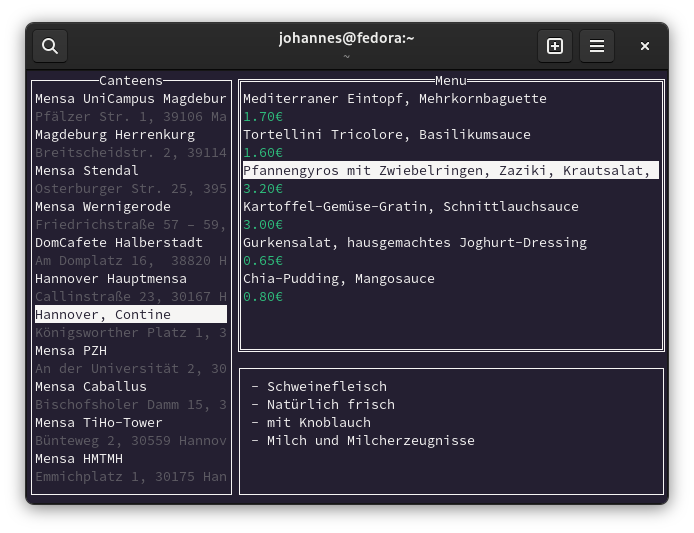
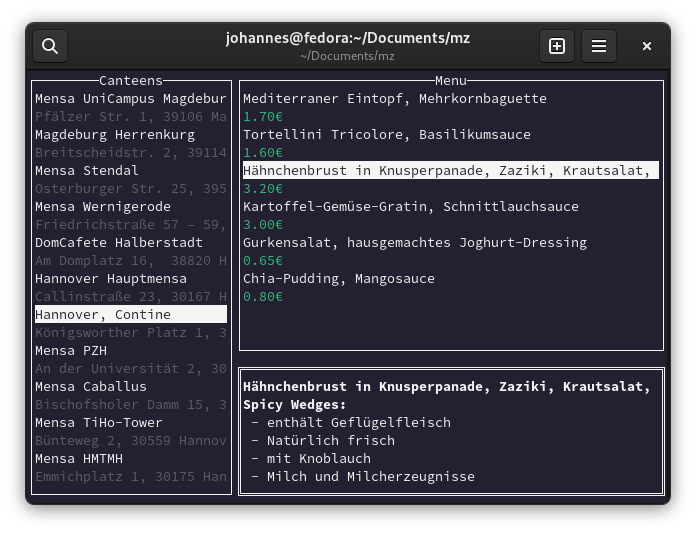
Improve detail view

diff --git a/main.go b/main.go
@@ -55,13 +55,13 @@ func displayMenu(menuList *tview.List, detailView *tview.TextView, menu <-chan [
 			}
 		case i := <-index:
 			detailView.Clear()
-
-			var contents string
-			for _, note := range current_menu[i].Notes {
+			meal := current_menu[i]
+			contents := fmt.Sprintf("[::b]%s:[::-]\n", meal.Name)
+			for _, note := range meal.Notes {
 				contents += fmt.Sprintf(" - %s\n", note)
 			}
 
-			detailView.SetText(contents)
+			detailView.SetText(contents).ScrollToBeginning()
 		}
 	}
 }
@@ -81,7 +81,7 @@ func main() {
 	menuList := tview.NewList()
 	menuList.SetBorder(true).SetTitle("Menu")
 
-	detailView := tview.NewTextView()
+	detailView := tview.NewTextView().SetDynamicColors(true).SetWrap(true).SetWordWrap(true)
 	detailView.SetBorder(true)
 
 	menuArea.AddItem(menuList, 0, 2, false)
